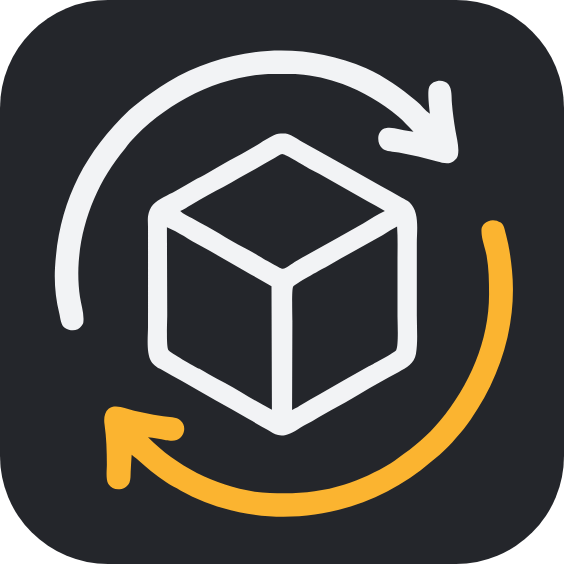
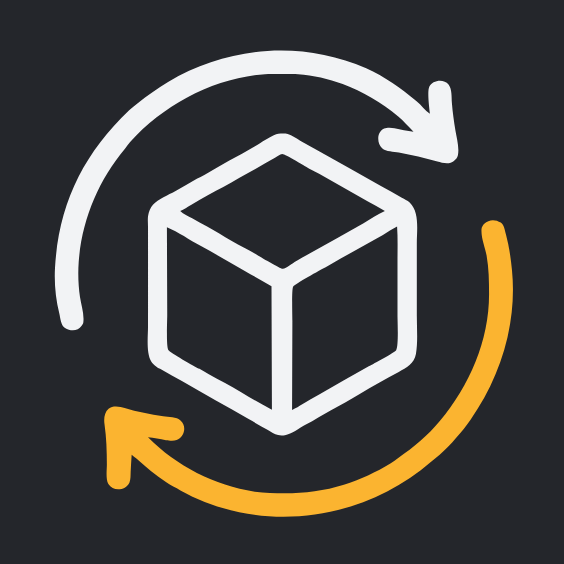
feat: v0.6.6 修复工具调用参数丢失
- 工具调用等参数拼成合法 JSON 才上报，流结束才允许空参数，
  修掉上游分 chunk 送参数时被当成「无参数调用」吞掉的 bug
- 已输出正文又转入工具调用时补一个空格，冲刷正文缓冲
- 新增 ucantransit.readFileLines：read_file 没指定行数时补默认行数（默认关闭）
- 新增 ucantransit.includeReasoningInRequest：回传上一轮思考（默认关闭）
- 主图改为四角直角

diff --git a/src/protocols/openai.ts b/src/protocols/openai.ts
@@ -19,12 +19,67 @@ interface OpenAIMessage {
 	content?: string | unknown[];
 	tool_calls?: Array<{ id: string; type: "function"; function: { name: string; arguments: string } }>;
 	tool_call_id?: string;
+	/** 只在开关打开时回传，个别线路靠它保持多轮思考上下文。 */
+	reasoning_content?: string;
+}
+
+/** 读一个配置项；拿不到环境（比如自检脚本里没有 workspace）就走默认值。 */
+function setting<T>(key: string, fallback: T): T {
+	try {
+		return vscode.workspace.getConfiguration("ucantransit").get<T>(key, fallback);
+	} catch {
+		return fallback;
+	}
+}
+
+/** assistant 消息是否把上一轮的思考内容带回去；默认关闭，多一条字段就多一分被拒的风险。 */
+function withReasoning(): boolean {
+	return setting("includeReasoningInRequest", false);
+}
+
+/** read_file 没指定行数时补上默认行数；默认 0 表示什么都不动。 */
+function applyReadFileDefaults(
+	toolName: string,
+	parameters: Record<string, unknown>
+): Record<string, unknown> {
+	if (toolName !== "read_file") {
+		return parameters;
+	}
+	const defaultLines = setting("readFileLines", 0);
+	if (defaultLines <= 0) {
+		return parameters;
+	}
+	const startLine = typeof parameters.startLine === "number" ? parameters.startLine : 1;
+	const endLine = typeof parameters.endLine === "number" ? parameters.endLine : startLine;
+	return endLine < startLine + defaultLines ? { ...parameters, endLine: startLine + defaultLines } : parameters;
+}
+
+const ThinkingPartClass = (
+	vscode as unknown as {
+		LanguageModelThinkingPart?: new (value: string | string[]) => unknown;
+	}
+).LanguageModelThinkingPart;
+
+/** 取出思考 part 的正文；不是思考 part 就返回 undefined。 */
+function thinkingText(part: unknown): string | undefined {
+	if (!ThinkingPartClass || !(part instanceof ThinkingPartClass)) {
+		return undefined;
+	}
+	const value = (part as { value?: unknown }).value;
+	if (typeof value === "string") {
+		return value;
+	}
+	if (Array.isArray(value)) {
+		return value.filter((item): item is string => typeof item === "string").join("");
+	}
+	return undefined;
 }
 
 export function convertMessages(
 	messages: readonly vscode.LanguageModelChatRequestMessage[]
 ): OpenAIMessage[] {
 	const out: OpenAIMessage[] = [];
+	const wantReasoning = withReasoning();
 
 	for (const message of messages) {
 		const role = mapRole(message);
@@ -32,9 +87,13 @@ export function convertMessages(
 		const images: vscode.LanguageModelDataPart[] = [];
 		const toolCalls: NonNullable<OpenAIMessage["tool_calls"]> = [];
 		const toolResults: Array<{ callId: string; content: string }> = [];
+		const thinking: string[] = [];
 
 		for (const part of message.content ?? []) {
-			if (part instanceof vscode.LanguageModelTextPart) {
+			const reasoning = wantReasoning ? thinkingText(part) : undefined;
+			if (reasoning !== undefined) {
+				thinking.push(reasoning);
+			} else if (part instanceof vscode.LanguageModelTextPart) {
 				texts.push(part.value);
 			} else if (isImagePart(part)) {
 				images.push(part);
@@ -58,6 +117,10 @@ export function convertMessages(
 			}
 			if (toolCalls.length > 0) {
 				assistant.tool_calls = toolCalls;
+			}
+			if (wantReasoning) {
+				// 没收到思考内容时给个占位，个别线路要求这个字段不能为空
+				assistant.reasoning_content = thinking.join("") || "Next step.";
 			}
 			out.push(assistant);
 		}
@@ -241,24 +304,35 @@ export class OpenAIChatProtocol implements Protocol {
 		const pending = new Map<number, { id?: string; name?: string; args: string }>();
 		const done = new Set<number>();
 		let latestUsage: TokenUsage | undefined;
+		let hinted = false;
 
-		const flush = (index: number): void => {
+		// final 为 false 时，只发「参数已经拼成合法 JSON」的调用。
+		// 上游往往先送 id + name（arguments 还是空串），那一刻就发等于把后面的参数全丢掉。
+		const flush = (index: number, final = false): void => {
 			const call = pending.get(index);
 			if (!call || done.has(index) || !call.name) {
+				return;
+			}
+			// 参数还没开始送，除非流已经结束，否则再等等
+			if (!call.args.trim() && !final) {
 				return;
 			}
 			const input = parseJsonObject(call.args);
 			if (!input) {
 				return;
 			}
-			request.reporter.toolCall(call.id ?? `call_${Math.random().toString(36).slice(2, 10)}`, call.name, input);
+			request.reporter.toolCall(
+				call.id ?? `call_${Math.random().toString(36).slice(2, 10)}`,
+				call.name,
+				applyReadFileDefaults(call.name, input)
+			);
 			done.add(index);
 			pending.delete(index);
 		};
 
-		const flushAll = (): void => {
+		const flushAll = (final = false): void => {
 			for (const index of Array.from(pending.keys())) {
-				flush(index);
+				flush(index, final);
 			}
 		};
 
@@ -288,6 +362,11 @@ export class OpenAIChatProtocol implements Protocol {
 
 			const calls = delta?.tool_calls as Array<Record<string, unknown>> | undefined;
 			if (Array.isArray(calls)) {
+				// 已经吐过正文又转进工具调用，补一个空格把上层正文缓冲冲干净（02 的同一做法）
+				if (!hinted && request.reporter.hasText && calls.length > 0) {
+					request.reporter.text(" ");
+					hinted = true;
+				}
 				for (const call of calls) {
 					const index = typeof call.index === "number" ? call.index : 0;
 					const entry = pending.get(index) ?? { args: "" };
@@ -308,11 +387,11 @@ export class OpenAIChatProtocol implements Protocol {
 
 			const finish = choice.finish_reason;
 			if (finish === "tool_calls" || finish === "stop") {
-				flushAll();
+				flushAll(true);
 			}
 		});
 
-		flushAll();
+		flushAll(true);
 		// 流结束后统一上报一次，用量只在最后一个 chunk 里给全
 		request.reporter.usage(latestUsage);
 		if (latestUsage) {

diff --git a/测试脚本/生成主图.js b/测试脚本/生成主图.js
@@ -3,7 +3,7 @@
  *
  * 原来的 logo 是浅灰（#e7e8ed）配橙，放在白色背景的市场页面上几乎看不见。
  * 这里只做配色和背景，形状一条 path 都不改：
- * 1) 垫一个深色圆角底，白底、深底两套主题下都有对比度
+ * 1) 垫一个深色直角底，白底和深底两套主题下都有对比度
  * 2) 浅灰部分换成接近白的 #F2F3F5
  * 3) 橙色 #FBB430 原样保留
  * 4) 整体内缩 8%，免得图形顶到圆角边
@@ -43,7 +43,7 @@ if (inner.includes("#e7e8ed")) {
 
 const svg = [
 	'<svg xmlns="http://www.w3.org/2000/svg" width="564" height="564" viewBox="0 0 564 564" version="1.1">',
-	`<rect x="0" y="0" width="564" height="564" rx="108" ry="108" fill="${BACKGROUND}"/>`,
+	`<rect x="0" y="0" width="564" height="564" fill="${BACKGROUND}"/>`,
 	`<g transform="translate(45.12 45.12) scale(0.84)">${inner}</g>`,
 	"</svg>",
 	"",

diff --git a/src/report.ts b/src/report.ts
@@ -50,6 +50,7 @@ export function readUsage(raw: unknown): TokenUsage | undefined {
  */
 export class Reporter {
 	private wrote = false;
+	private textWrote = false;
 
 	constructor(private readonly progress: vscode.Progress<vscode.LanguageModelResponsePart>) {}
 
@@ -58,11 +59,17 @@ export class Reporter {
 		return this.wrote;
 	}
 
+	/** 已经送过正文（不算思考）。工具调用前要靠它决定要不要补个空格。 */
+	get hasText(): boolean {
+		return this.textWrote;
+	}
+
 	text(value: string): void {
 		if (!value) {
 			return;
 		}
 		this.wrote = true;
+		this.textWrote = true;
 		this.progress.report(new vscode.LanguageModelTextPart(value));
 	}
 

diff --git a/测试脚本/协议自检.js b/测试脚本/协议自检.js
@@ -204,7 +204,8 @@ async function main() {
 
 	try {
 		const openaiParts = collect(await run(openai, "openai", openai.port));
-		check("openai：文本", openaiParts.text === "你好", openaiParts.text);
+		// 这段流里正文后面紧跟工具调用，按 02 的做法会补一个空格冲刷正文缓冲，所以末尾多一格
+		check("openai：文本", openaiParts.text === "你好 ", openaiParts.text);
 		check("openai：思考内容", openaiParts.thinking.includes("想一下"), openaiParts.thinking);
 		check("openai：工具调用", openaiParts.calls[0]?.name === "read_file" && openaiParts.calls[0]?.input.path === "a.txt", JSON.stringify(openaiParts.calls));
 

diff --git a/CHANGELOG.md b/CHANGELOG.md
@@ -1,5 +1,15 @@
 # Changelog
 
+## 0.6.6
+
+修掉工具调用参数被吞的致命 bug，并补齐几处与上游交互的细节。
+
+- **修复工具调用参数丢失**：上游常常分几个 chunk 送工具调用，第一个只带 id 和名称、参数还是空串。原来的实现那一刻就当作「无参数调用」发了出去并标记完成，后面真正的参数全被丢掉。现在等参数拼成合法 JSON 才发，流结束时才允许空参数
+- **工具调用前冲刷缓冲**：已输出正文又转入工具调用时补一个空格，减少正文「卡住不显示」
+- **新增 `ucantransit.readFileLines`**：模型调用 read_file 没指定行数时补上默认行数，避免一次只读一行。默认 0 不干预
+- **新增 `ucantransit.includeReasoningInRequest`**：把上一轮思考作为 `reasoning_content` 回传，个别线路靠它保持多轮思考上下文。默认关闭
+- **主图改为四角直角**，不再带圆角过渡
+
 ## 0.6.3
 
 修掉长回答被截断、连接被误判为超时这两个真问题，顺手把用量显示变成真实值。

diff --git a/README.md b/README.md
@@ -97,7 +97,7 @@ npm run compile
 
 ```bash
 npm run package
-code --install-extension ucantransit-0.6.3.vsix
+code --install-extension ucantransit-0.6.6.vsix
 ```
 
 ## 使用步骤
